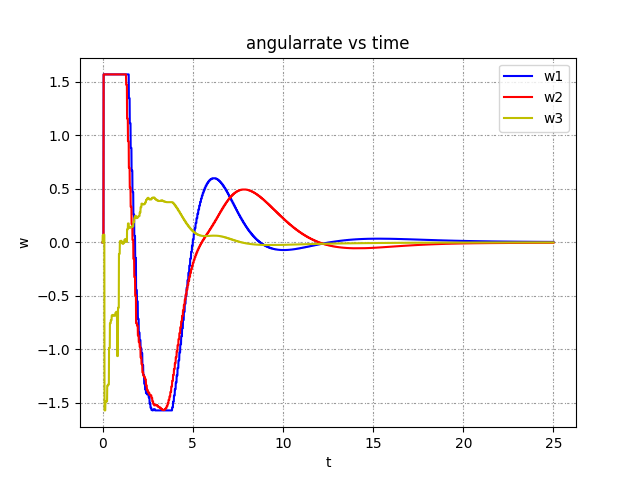
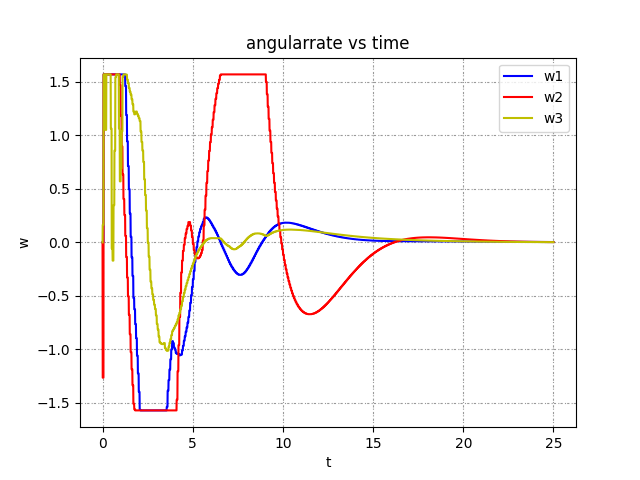
gazebo python more similar result

Changed region(s): [[0.1562, 0.1562, 0.875, 0.875], [0.3438, 0.125, 0.4062, 0.1562], [0.5312, 0.5625, 0.5625, 0.5938]]

diff --git a/gestelt_bringup/src/Learning_Agile/learning_agile_agent.py b/gestelt_bringup/src/Learning_Agile/learning_agile_agent.py
@@ -303,9 +303,9 @@ class LearningAgileAgent():
                     out = self.model(solver_inputs).data.numpy()
                     
                     out[0:3]=self.gate_center
-                    # out[3:6]=np.array([0,-0.7*0.6,0])
+                    out[3:6]=np.array([0,-0.7,0])
 
-                    out[3:6]=np.array([0,0,0])
+                    # out[3:6]=np.array([0,0,0])
                     out[6]=t_tra_abs-self.i*self.dyn_step
                     t_comp = time.time()
                   

diff --git a/gestelt_bringup/src/Learning_Agile/c_generated_code/ACADOS_model_cost/ACADOS_model_cost_ext_cost_0_fun_jac.c b/gestelt_bringup/src/Learning_Agile/c_generated_code/ACADOS_model_cost/ACADOS_model_cost_ext_cost_0_fun_jac.c
@@ -290,7 +290,7 @@ static int casadi_f0(const casadi_real** arg, casadi_real** res, casadi_int* iw,
   a48=casadi_sq(a7);
   a43=(a43+a48);
   a43=(a25*a43);
-  a48=3.;
+  a48=8.;
   a21=arg[3]? arg[3][19] : 0;
   a46=casadi_sq(a21);
   a30=arg[3]? arg[3][20] : 0;

diff --git a/gestelt_bringup/src/Learning_Agile/c_generated_code/ACADOS_model_cost/ACADOS_model_cost_ext_cost_0_fun_jac_hess.c b/gestelt_bringup/src/Learning_Agile/c_generated_code/ACADOS_model_cost/ACADOS_model_cost_ext_cost_0_fun_jac_hess.c
@@ -294,7 +294,7 @@ static int casadi_f0(const casadi_real** arg, casadi_real** res, casadi_int* iw,
   a48=casadi_sq(a7);
   a43=(a43+a48);
   a43=(a25*a43);
-  a48=3.;
+  a48=8.;
   a21=arg[3]? arg[3][19] : 0;
   a46=casadi_sq(a21);
   a30=arg[3]? arg[3][20] : 0;

diff --git a/gestelt_bringup/src/Learning_Agile/c_generated_code/ACADOS_model_cost/ACADOS_model_cost_ext_cost_fun_jac.c b/gestelt_bringup/src/Learning_Agile/c_generated_code/ACADOS_model_cost/ACADOS_model_cost_ext_cost_fun_jac.c
@@ -290,7 +290,7 @@ static int casadi_f0(const casadi_real** arg, casadi_real** res, casadi_int* iw,
   a48=casadi_sq(a7);
   a43=(a43+a48);
   a43=(a25*a43);
-  a48=3.;
+  a48=8.;
   a21=arg[3]? arg[3][19] : 0;
   a46=casadi_sq(a21);
   a30=arg[3]? arg[3][20] : 0;

diff --git a/gestelt_bringup/src/Learning_Agile/c_generated_code/ACADOS_model_cost/ACADOS_model_cost_ext_cost_fun_jac_hess.c b/gestelt_bringup/src/Learning_Agile/c_generated_code/ACADOS_model_cost/ACADOS_model_cost_ext_cost_fun_jac_hess.c
@@ -294,7 +294,7 @@ static int casadi_f0(const casadi_real** arg, casadi_real** res, casadi_int* iw,
   a48=casadi_sq(a7);
   a43=(a43+a48);
   a43=(a25*a43);
-  a48=3.;
+  a48=8.;
   a21=arg[3]? arg[3][19] : 0;
   a46=casadi_sq(a21);
   a30=arg[3]? arg[3][20] : 0;

diff --git a/gestelt_bringup/src/Learning_Agile/c_generated_code/ACADOS_model_cost/ACADOS_model_cost_ext_cost_0_fun.c b/gestelt_bringup/src/Learning_Agile/c_generated_code/ACADOS_model_cost/ACADOS_model_cost_ext_cost_0_fun.c
@@ -288,7 +288,7 @@ static int casadi_f0(const casadi_real** arg, casadi_real** res, casadi_int* iw,
   a5=casadi_sq(a5);
   a0=(a0+a5);
   a7=(a7*a0);
-  a0=3.;
+  a0=8.;
   a5=arg[3]? arg[3][19] : 0;
   a3=casadi_sq(a5);
   a19=arg[3]? arg[3][20] : 0;

diff --git a/gestelt_bringup/src/Learning_Agile/c_generated_code/ACADOS_model_cost/ACADOS_model_cost_ext_cost_fun.c b/gestelt_bringup/src/Learning_Agile/c_generated_code/ACADOS_model_cost/ACADOS_model_cost_ext_cost_fun.c
@@ -288,7 +288,7 @@ static int casadi_f0(const casadi_real** arg, casadi_real** res, casadi_int* iw,
   a5=casadi_sq(a5);
   a0=(a0+a5);
   a7=(a7*a0);
-  a0=3.;
+  a0=8.;
   a5=arg[3]? arg[3][19] : 0;
   a3=casadi_sq(a5);
   a19=arg[3]? arg[3][20] : 0;
